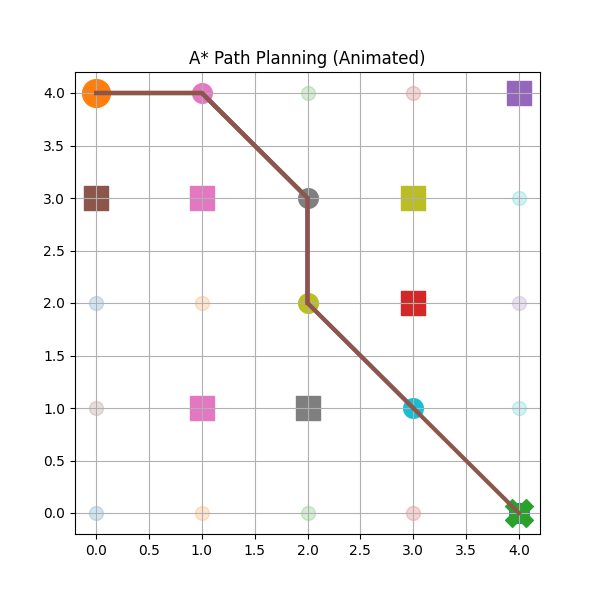
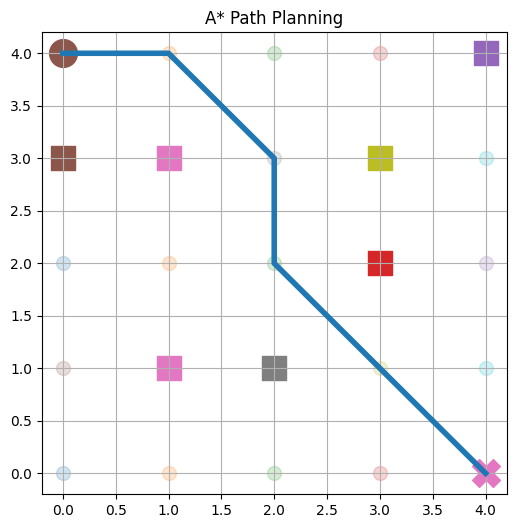
Implemented A* pathfinding with visualization and map selection
- Added A* algorithm implementation
- Implemented Manhattan heuristic
- Added grid visualization using matplotlib
- Added support for multiple maps
- Fixed input handling bug

Changed region(s): [[0.0, 0.0, 0.9922, 1.0], [0.4651, 0.6364, 0.5581, 0.7273]]

diff --git a/main.py b/main.py
@@ -1,6 +1,5 @@
 import heapq
 import matplotlib.pyplot as plt
-import time
 
 # =========================
 # NODE CLASS
@@ -18,7 +17,7 @@ class Node:
 
 
 # =========================
-# HEURISTIC (EUCLIDEAN for diagonal)
+# HEURISTIC
 # =========================
 def heuristic(a, b):
     return ((a[0] - b[0])**2 + (a[1] - b[1])**2) ** 0.5
@@ -29,19 +28,19 @@ def heuristic(a, b):
 # =========================
 def get_neighbors(node, grid):
     directions = [
-        (-1, 0), (1, 0), (0, -1), (0, 1),   # straight
-        (-1, -1), (-1, 1), (1, -1), (1, 1)  # diagonal
+        (-1, 0), (1, 0), (0, -1), (0, 1),
+        (-1, -1), (-1, 1), (1, -1), (1, 1)
     ]
 
     neighbors = []
 
     for d in directions:
-        row = node.position[0] + d[0]
-        col = node.position[1] + d[1]
+        r = node.position[0] + d[0]
+        c = node.position[1] + d[1]
 
-        if 0 <= row < len(grid) and 0 <= col < len(grid[0]):
-            if grid[row][col] == 0:
-                neighbors.append((row, col))
+        if 0 <= r < len(grid) and 0 <= c < len(grid[0]):
+            if grid[r][c] == 0:
+                neighbors.append((r, c))
 
     return neighbors
 
@@ -67,20 +66,20 @@ def astar(grid, start, goal):
                 current_node = current_node.parent
             return path[::-1]
 
-        for neighbor_pos in get_neighbors(current_node, grid):
-            if neighbor_pos in closed_set:
+        for pos in get_neighbors(current_node, grid):
+            if pos in closed_set:
                 continue
 
-            neighbor = Node(neighbor_pos, current_node)
+            neighbor = Node(pos, current_node)
 
-            # Diagonal cost handling
-            if neighbor_pos[0] != current_node.position[0] and neighbor_pos[1] != current_node.position[1]:
-                step_cost = 1.4  # diagonal
+            # diagonal vs straight cost
+            if pos[0] != current_node.position[0] and pos[1] != current_node.position[1]:
+                step_cost = 1.4
             else:
-                step_cost = 1    # straight
+                step_cost = 1
 
             neighbor.g = current_node.g + step_cost
-            neighbor.h = heuristic(neighbor_pos, goal)
+            neighbor.h = heuristic(pos, goal)
             neighbor.f = neighbor.g + neighbor.h
 
             heapq.heappush(open_list, neighbor)
@@ -89,14 +88,13 @@ def astar(grid, start, goal):
 
 
 # =========================
-# ANIMATION VISUALIZATION
+# VISUALIZATION
 # =========================
-def animate(grid, path, start, goal):
+def visualize(grid, path, start, goal):
     rows = len(grid)
 
     plt.figure(figsize=(6, 6))
 
-    # draw base grid
     for r in range(rows):
         for c in range(len(grid[0])):
             if grid[r][c] == 1:
@@ -104,44 +102,64 @@ def animate(grid, path, start, goal):
             else:
                 plt.scatter(c, rows - r - 1, s=100, alpha=0.2)
 
-    # draw path gradually
-    for i in range(len(path)):
-        x = [p[1] for p in path[:i+1]]
-        y = [rows - p[0] - 1 for p in path[:i+1]]
+    if path:
+        x = [p[1] for p in path]
+        y = [rows - p[0] - 1 for p in path]
+        plt.plot(x, y, linewidth=4)
 
-        plt.plot(x, y, linewidth=3)
-        plt.scatter(path[i][1], rows - path[i][0] - 1, s=200)
-
-        plt.pause(0.3)
-
-    # start and goal
     plt.scatter(start[1], rows - start[0] - 1, s=400, marker='o')
     plt.scatter(goal[1], rows - goal[0] - 1, s=400, marker='X')
 
-    plt.title("A* Path Planning (Animated)")
+    plt.title("A* Path Planning")
     plt.grid(True)
-    plt.savefig("output.png")
+    plt.savefig("output.png", bbox_inches='tight')
     plt.show()
 
 
 # =========================
-# MAIN
+# MULTIPLE MAPS
+# =========================
+def get_map(choice):
+    maps = {
+        1: [
+            [0,0,0,0,1],
+            [1,1,0,1,0],
+            [0,0,0,1,0],
+            [0,1,1,0,0],
+            [0,0,0,0,0]
+        ],
+        2: [
+            [0,0,1,0,0],
+            [0,1,1,0,1],
+            [0,0,0,0,0],
+            [1,0,1,1,0],
+            [0,0,0,0,0]
+        ]
+    }
+    return maps.get(choice, maps[1])
+
+
+# =========================
+# MAIN SYSTEM
 # =========================
 if __name__ == "__main__":
-    grid = [
-        [0, 0, 0, 0, 1],
-        [1, 1, 0, 1, 0],
-        [0, 0, 0, 1, 0],
-        [0, 1, 1, 0, 0],
-        [0, 0, 0, 0, 0]
-    ]
 
-    start = (0, 0)
-    goal = (4, 4)
+    print("Select Map: 1 or 2")
+    map_choice = int(input("Enter map number: "))
+
+    grid = get_map(map_choice)
+
+    print("Enter Start Position (row col): ")
+    start = tuple(map(int, input().split()))
+
+    print("Enter Goal Position (row col): ")
+    goal = tuple(map(int, input().split()))
 
     path = astar(grid, start, goal)
 
-    print("Path:", path)
-    print("Path length:", len(path))
-
-    animate(grid, path, start, goal)
+    if path:
+        print("Path:", path)
+        print("Path length:", len(path))
+        visualize(grid, path, start, goal)
+    else:
+        print("No path found!")
